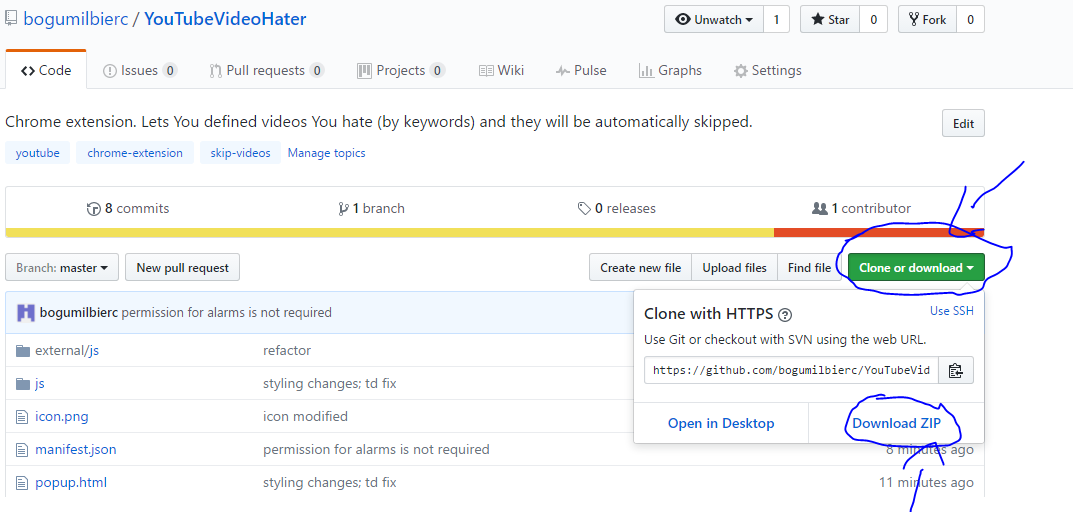
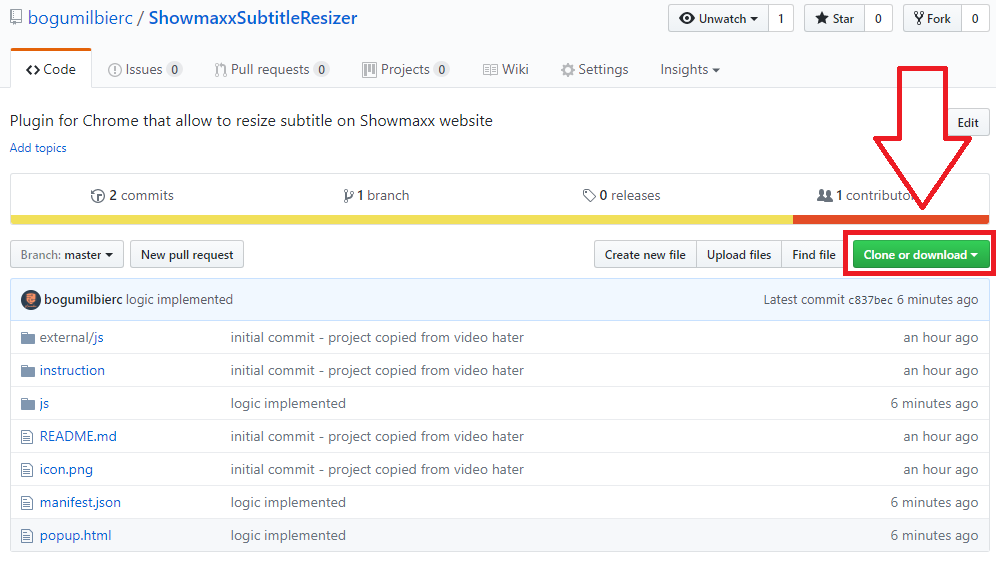
readme update; instruction image update

diff --git a/README.md b/README.md
@@ -1,14 +1,13 @@
-# YouTubeVideoHater
-Chrome extension. Lets You define videos You hate (by keywords) and then they will be automatically skipped.
+# ShowmaxSubtitleResizer
+Chrome extension. Lets You define font size and line height for Showmaxx subtitles and then it automatically applies the settings..
 
 # Intro
-Lets imagine that You hate Justin Bieber. You hate is so much, that You cannot stand a video on YouTube that contains his voice.
-Up to now, You would need to go to YouTube tab in chrome and change video, however this is no longer the case! This app will do it for You!
+You love Showmax. You love videos. You love subtitles. You are blind. Subtitles are small. You want the subtitles to be bigger. You want to see them. You try ```ctrl++``. You are using Chrome on Linux. Showmax page get broken. Subtitles look like crap. You want subtitles to be nice. You sacrifice a goat. It didn't help. You want to scale only the subtitles. You notice that they are div over video. You tweak the CSS. You are happy. No goat is being sacrificed. Next day You want to watch another video. Subtitles are small. You are not happy. You sacrifice a goat. It didn't help. You need to repeat the work again. You look for solution. You find this extension. You install it. You are happy. Goat is happy. Goat is not sacrificed.
 
 # How it works
-- User is defining list of keywords.
-- Extension is checking if title of YouTube video that is played right now contains any of keywords. If yes, then video is switched to next (as You would press next button in YouTube player).
-- List of hated keywords is automatically synced between Your devices (if You are logged in Chrome).
+- User is defining ```font-size``` and ```line-height``` for subtitles.
+- Extension is checking if Showmax video is currently playing and if so, then it applies the settings.
+- Subitles settings are automatically synced between Your devices (if You are logged in Chrome).
 
 ## Installing this extension
 1. Download code from GitHub:
@@ -24,10 +23,9 @@ chrome://extensions/
 6. Select folder with unzipped extension.
 7. Done! :)
 
-## Defining keywords
-1. Click on the "dislike" button in Extensions toolbar:
+## Defining settings
+1. Click on the "subtitle" button in Extensions toolbar:
 ![screen](https://github.com/bogumilbierc/YouTubeVideoHater/blob/master/instruction/ExtensionsToolbar.PNG)
-2. Type a keyword and click "Hate it!":
+2. Type settings and click save
 ![screen](https://github.com/bogumilbierc/YouTubeVideoHater/blob/master/instruction/Preview.PNG)
-3. Keyword will be added to list at the bottom of the widget.
-4. U can remove keywords You no longer want to hate. :)
+3. Enjoy
